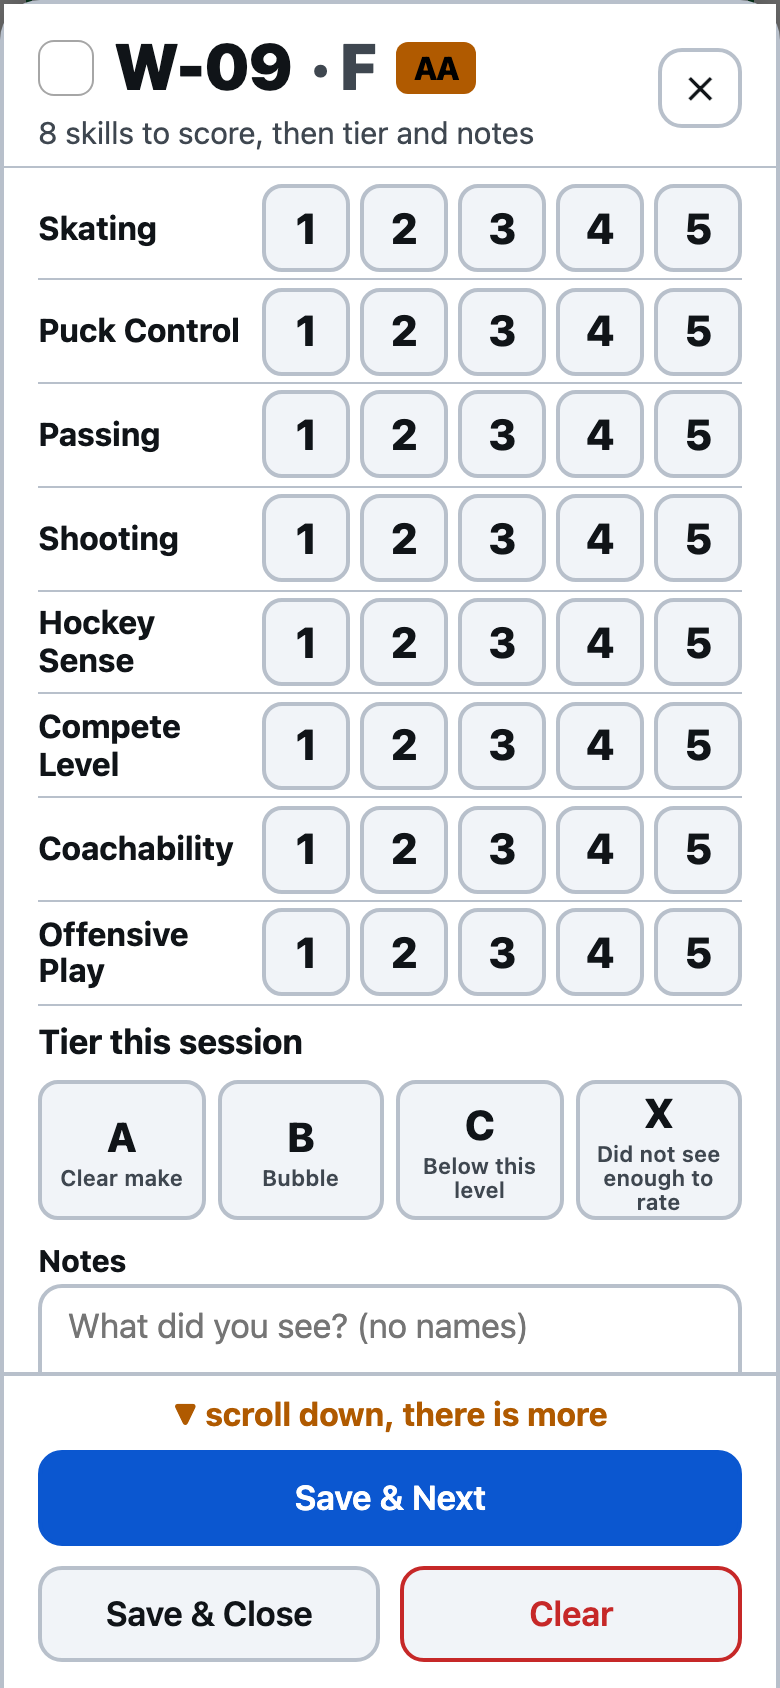
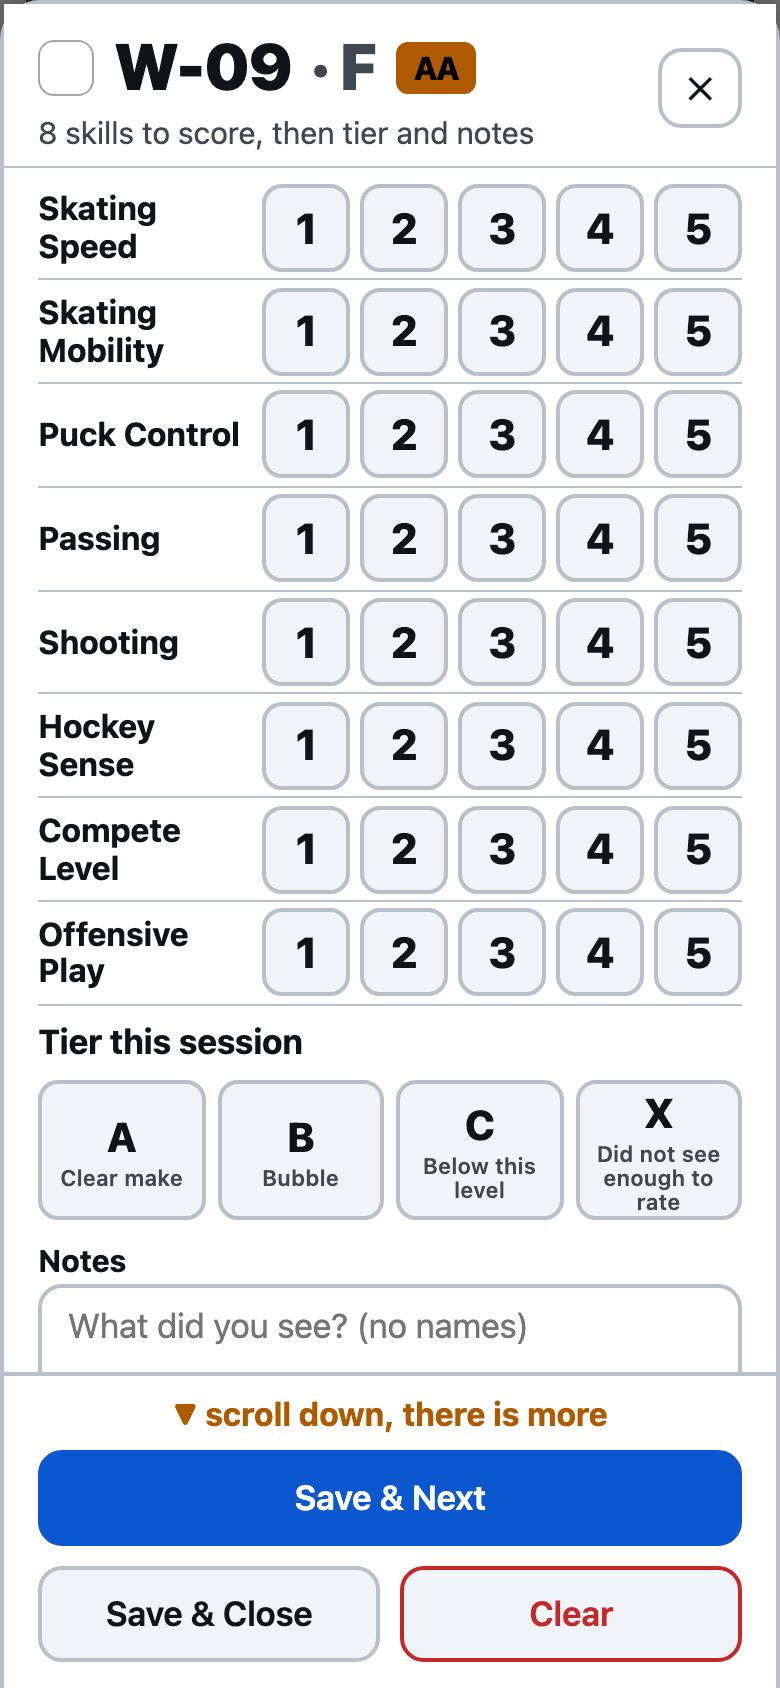
Rubric: Skating Speed and Skating Mobility replace Skating and Coachability
Keys speed/mobility (F and D, weight 1.0 each; short Speed/Mobility) replace
skating (1.5) and coachable (0.5). Goalies keep their five criteria. Scores
stored under the old keys are ignored by rankings, CSVs and My rankings, and
the write resolver strips them (verified on the APPSYNC_JS runtime). Tests and
docs updated.

Changed region(s): [[0.0308, 0.3081, 0.3077, 0.5237], [0.0308, 0.0924, 0.3077, 0.2156], [0.0615, 0.2464, 0.3077, 0.2773]]

diff --git a/tests/resolvers.test.js b/tests/resolvers.test.js
@@ -21,7 +21,7 @@ describe("Mutation.upsertEvaluation step 1 (load context)", () => {
   let mod;
   before(async () => { mod = await loadResolver("Mutation.upsertEvaluation.1.loadContext.js"); });
 
-  const args = { tryoutId: TRYOUT, sessionId: SESSION, playerNumber: "W-14", scores: { skating: 4 }, clientId: "c-1" };
+  const args = { tryoutId: TRYOUT, sessionId: SESSION, playerNumber: "W-14", scores: { speed: 4 }, clientId: "c-1" };
 
   test("request fetches META, SESSION, PLAYER and the caller's access row in one BatchGetItem", () => {
     const req = mod.request(ctx({ args }));
@@ -219,7 +219,7 @@ describe("Mutation.upsertEvaluation step 2 (put)", () => {
 
   const baseArgs = {
     tryoutId: TRYOUT, sessionId: SESSION, playerNumber: "W-14", clientId: "c-1",
-    scores: { skating: 4, sense: 5 }, tier: "A", notes: "Strong on the rush",
+    scores: { speed: 4, sense: 5 }, tier: "A", notes: "Strong on the rush",
   };
 
   test("evaluatorId comes from identity, not from args", () => {
@@ -238,15 +238,15 @@ describe("Mutation.upsertEvaluation step 2 (put)", () => {
   });
 
   test("unknown score keys and invalid values are stripped; position-specific keys respected", () => {
-    const args = { ...baseArgs, scores: { skating: 4, offence: 5, g_save: 3, bogus: 5, puck: 6, passing: 2.5, shooting: "4", sense: 1 } };
+    const args = { ...baseArgs, scores: { speed: 4, offence: 5, g_save: 3, bogus: 5, coachable: 4, puck: 6, passing: 2.5, shooting: "4", sense: 1 } };
     const req = mod.request(ctx({ args, stash: { position: "D" } }));
     const item = fromMapValues(req.attributeValues);
-    assert.deepEqual(item.scores, { skating: 4, sense: 1 }); // offence is F-only, g_save is G-only, others invalid
+    assert.deepEqual(item.scores, { speed: 4, sense: 1 }); // offence is F-only, g_save is G-only, others invalid
   });
 
   test("scores may arrive as a JSON string (AWSJSON) and are parsed", () => {
-    const req = mod.request(ctx({ args: { ...baseArgs, scores: JSON.stringify({ dzone: 3, skating: 2 }) }, stash: { position: "D" } }));
-    assert.deepEqual(fromMapValues(req.attributeValues).scores, { skating: 2, dzone: 3 });
+    const req = mod.request(ctx({ args: { ...baseArgs, scores: JSON.stringify({ dzone: 3, speed: 2 }) }, stash: { position: "D" } }));
+    assert.deepEqual(fromMapValues(req.attributeValues).scores, { speed: 2, dzone: 3 });
   });
 
   test("notes are capped at 280 characters and trimmed", () => {
@@ -271,12 +271,12 @@ describe("Mutation.upsertEvaluation step 2 (put)", () => {
 
   test("response maps the stored item to the Evaluation type", () => {
     const stored = {
-      playerNumber: "W-14", sessionId: SESSION, evaluatorId: EVALUATOR_SUB, scores: { skating: 4 },
+      playerNumber: "W-14", sessionId: SESSION, evaluatorId: EVALUATOR_SUB, scores: { speed: 4 },
       tier: "A", notes: null, updatedAt: "2026-09-13T00:00:00.000Z", clientId: "c-1", PK: "x", SK: "y", GSI1PK: "z",
     };
     const out = mod.response(ctx({ result: stored }));
     assert.deepEqual(out, {
-      playerNumber: "W-14", sessionId: SESSION, evaluatorId: EVALUATOR_SUB, scores: { skating: 4 },
+      playerNumber: "W-14", sessionId: SESSION, evaluatorId: EVALUATOR_SUB, scores: { speed: 4 },
       tier: "A", notes: null, updatedAt: "2026-09-13T00:00:00.000Z", clientId: "c-1",
     });
   });

diff --git a/tests/criteria.test.js b/tests/criteria.test.js
@@ -25,38 +25,38 @@ test("no criterion label or help text asks for a name", () => {
 
 test("a forward is scored only on forward criteria", () => {
   const keys = keysFor("F");
-  assert.deepEqual(keys, ["skating", "puck", "passing", "shooting", "sense", "compete", "coachable", "offence"]);
+  assert.deepEqual(keys, ["speed", "mobility", "puck", "passing", "shooting", "sense", "compete", "offence"]);
   assert.ok(!keys.includes("dzone"));
   assert.ok(!keys.some((k) => k.startsWith("g_")));
   // Scores on non-forward criteria are ignored
-  const withD = weightedScore("F", { skating: 5, dzone: 1, g_save: 1 });
+  const withD = weightedScore("F", { speed: 5, dzone: 1, g_save: 1 });
   assert.equal(withD, 5);
 });
 
-test("a defenceman gets dzone but not offence; a goalie gets only goalie criteria + coachability", () => {
+test("a defenceman gets dzone but not offence; a goalie gets only goalie criteria", () => {
   assert.ok(keysFor("D").includes("dzone"));
   assert.ok(!keysFor("D").includes("offence"));
-  assert.deepEqual(keysFor("G"), ["coachable", "g_skating", "g_save", "g_rebound", "g_sense", "g_compete"]);
+  assert.deepEqual(keysFor("G"), ["g_skating", "g_save", "g_rebound", "g_sense", "g_compete"]);
 });
 
 test("blank criteria are ignored", () => {
-  // Only skating (1.5) and passing (1.0) scored
-  const s = weightedScore("D", { skating: 4, passing: 2, puck: null, shooting: undefined });
+  // Only sense (1.5) and passing (1.0) scored
+  const s = weightedScore("D", { sense: 4, passing: 2, puck: null, shooting: undefined });
   assert.equal(s, (4 * 1.5 + 2 * 1.0) / 2.5);
 });
 
 test("weights are applied", () => {
-  // skating weight 1.5 vs shooting weight 1.0: a 5 in skating and 1 in shooting should lean toward 5
-  const s = weightedScore("F", { skating: 5, shooting: 1 });
+  // compete weight 1.5 vs shooting weight 1.0: a 5 in compete and 1 in shooting should lean toward 5
+  const s = weightedScore("F", { compete: 5, shooting: 1 });
   assert.equal(s, (5 * 1.5 + 1 * 1.0) / 2.5);
-  assert.ok(s > 3, "weighted toward skating");
+  assert.ok(s > 3, "weighted toward compete");
   // equal weights option gives plain mean
-  assert.equal(weightedScore("F", { skating: 5, shooting: 1 }, { equalWeights: true }), 3);
+  assert.equal(weightedScore("F", { compete: 5, shooting: 1 }, { equalWeights: true }), 3);
 });
 
 test("all-blank returns null", () => {
   assert.equal(weightedScore("F", {}), null);
-  assert.equal(weightedScore("F", { skating: null, puck: undefined }), null);
+  assert.equal(weightedScore("F", { speed: null, puck: undefined }), null);
   assert.equal(weightedScore("G", null), null);
   assert.equal(weightedScore("F", { dzone: 5 }), null, "only non-applicable keys → null");
 });
@@ -67,7 +67,7 @@ test("invalid values (0, 6, 3.5, strings) are treated as blank", () => {
   assert.equal(isValidScore(3.5), false);
   assert.equal(isValidScore("3"), false);
   assert.equal(isValidScore(3), true);
-  assert.equal(weightedScore("F", { skating: 6, puck: "4", passing: 3 }), 3);
+  assert.equal(weightedScore("F", { speed: 6, puck: "4", passing: 3 }), 3);
 });
 
 test("full sheet all 3s scores exactly 3 regardless of weights", () => {

diff --git a/web/js/criteria.js b/web/js/criteria.js
@@ -12,8 +12,10 @@ export const SCALE = {
 
 export const CRITERIA = [
   // Skaters (F and D)
-  { key: "skating",   label: "Skating",           short: "Skating", for: ["F", "D"], weight: 1.5,
-    help: "Stride power, top speed, edges, crossovers both ways, backward skating, stops/starts, transitions" },
+  { key: "speed",     label: "Skating Speed",     short: "Speed", for: ["F", "D"], weight: 1.0,
+    help: "Top speed, first three strides, acceleration out of stops and turns, keeps pace with the play" },
+  { key: "mobility",  label: "Skating Mobility",  short: "Mobility", for: ["F", "D"], weight: 1.0,
+    help: "Edges, crossovers both ways, tight turns, backward skating, pivots and transitions without losing speed" },
   { key: "puck",      label: "Puck Control",      short: "Puck", for: ["F", "D"], weight: 1.0,
     help: "Handles in traffic with head up, protects the puck, receives hard/bad passes, controls at speed" },
   { key: "passing",   label: "Passing",           short: "Passing", for: ["F", "D"], weight: 1.0,
@@ -24,8 +26,6 @@ export const CRITERIA = [
     help: "Positioning, anticipation, reads the play, supports the puck, makes the simple play" },
   { key: "compete",   label: "Compete Level",     short: "Compete", for: ["F", "D"], weight: 1.5,
     help: "Wins battles, back-checks every time, second effort, plays hard in drills not just games" },
-  { key: "coachable", label: "Coachability",      short: "Coach", for: ["F", "D", "G"], weight: 0.5,
-    help: "Listens, executes the drill as explained, first in line, positive with teammates" },
   // Defence extras
   { key: "dzone",     label: "Defensive Play",    short: "Defence", for: ["D"], weight: 1.0,
     help: "Gap control, angling, stick on puck, boxes out in front, first pass out of the zone" },

diff --git a/docs/RUNNING-A-TRYOUT.md b/docs/RUNNING-A-TRYOUT.md
@@ -225,13 +225,18 @@ phone until they sign in there again, but it is simpler to wait for green.
 
 ### Recommended session shape
 
-Skate 1 skills and skating (score skating, puck control, passing, shooting cleanly); skates 2 and 3 small-area
+Skate 1 skills and skating (score speed, mobility, puck control, passing, shooting cleanly); skates 2 and 3 small-area
 games and scrimmage (hockey sense, compete, position-specific criteria); the last skate scrimmage only, focused
 on bubble players. Before the last skate, use the rankings to give evaluators the numbers that need a second look.
 
 ---
 
 ## Reading the results
+
+**The rubric.** Skaters are scored on Skating Speed, Skating Mobility, Puck Control, Passing, Shooting, Hockey
+Sense, Compete Level and, by position, Defensive Play or Offensive Play; goalies on Crease Movement, Save
+Technique, Rebound Control, Game Awareness and Compete Level. (Speed and Mobility replaced Skating and Coachability
+on 16 September 2026; scores given under the old names are not counted anywhere and should be re-entered.)
 
 Sign in on a laptop or tablet. The **Rankings** tab shows one row per active player. Use *Refresh* at the top to
 pull the latest scores.
@@ -241,10 +246,10 @@ pull the latest scores.
 | Player / Pos | player code (with the AA badge if tagged) and position |
 | Sessions | ice times the player was on the ice for, out of the total (absent and not-dressed sessions do not count) |
 | Evals | how many evaluator-sessions scored this player |
-| Overall | weighted average of the scored criteria (skating, hockey sense and compete count 1.5×, coachability 0.5×), averaged across evaluations |
+| Overall | weighted average of the scored criteria (hockey sense and compete count 1.5×, everything else 1×), averaged across evaluations |
 | Spread | how much evaluators disagree on this player: the standard deviation of each evaluator's overall. Rows at 0.75 or more are highlighted |
 | A B C X | how many evaluators gave each tier |
-| Skating … Offensive Play | average score per criterion; `–` means not applicable to that position |
+| Speed … Offensive Play | average score per criterion; `–` means not applicable to that position |
 
 A player's overall is the **average** of the evaluations they actually received, so missing sessions never lowers
 their number. It just gives you fewer data points: read Sessions and Evals together. Two players with the same

diff --git a/README.md b/README.md
@@ -69,7 +69,11 @@ full-screen scoring sheet with the header and Save buttons pinned and a "scroll 
 rankings* (their own scores only, across sessions); *Players* (the full list with what each is wearing, editable
 behind a confirm since it shows for everyone). Absent and not-dressed players do not appear.
 
-**Rubric.** `web/js/criteria.js` is the single source of truth for criteria, weights, anchors and tiers. The
+**Rubric.** `web/js/criteria.js` is the single source of truth for criteria, weights, anchors and tiers. Skaters:
+Skating Speed and Skating Mobility (1.0 each, replacing Skating 1.5 and Coachability 0.5 as of 2026-09-16), Puck
+Control, Passing, Shooting, Hockey Sense (1.5), Compete Level (1.5), plus Defensive or Offensive Play; goalies:
+Crease Movement, Save Technique, Rebound Control, Game Awareness, Compete Level. Renaming a criterion key means
+scores stored under the old key are ignored by rankings, CSVs and the write resolver (unknown keys are stripped). The
 evaluator form, the admin rankings, the CSV headers, the resolvers (which strip unknown keys) and the tests all
 import it.
 
